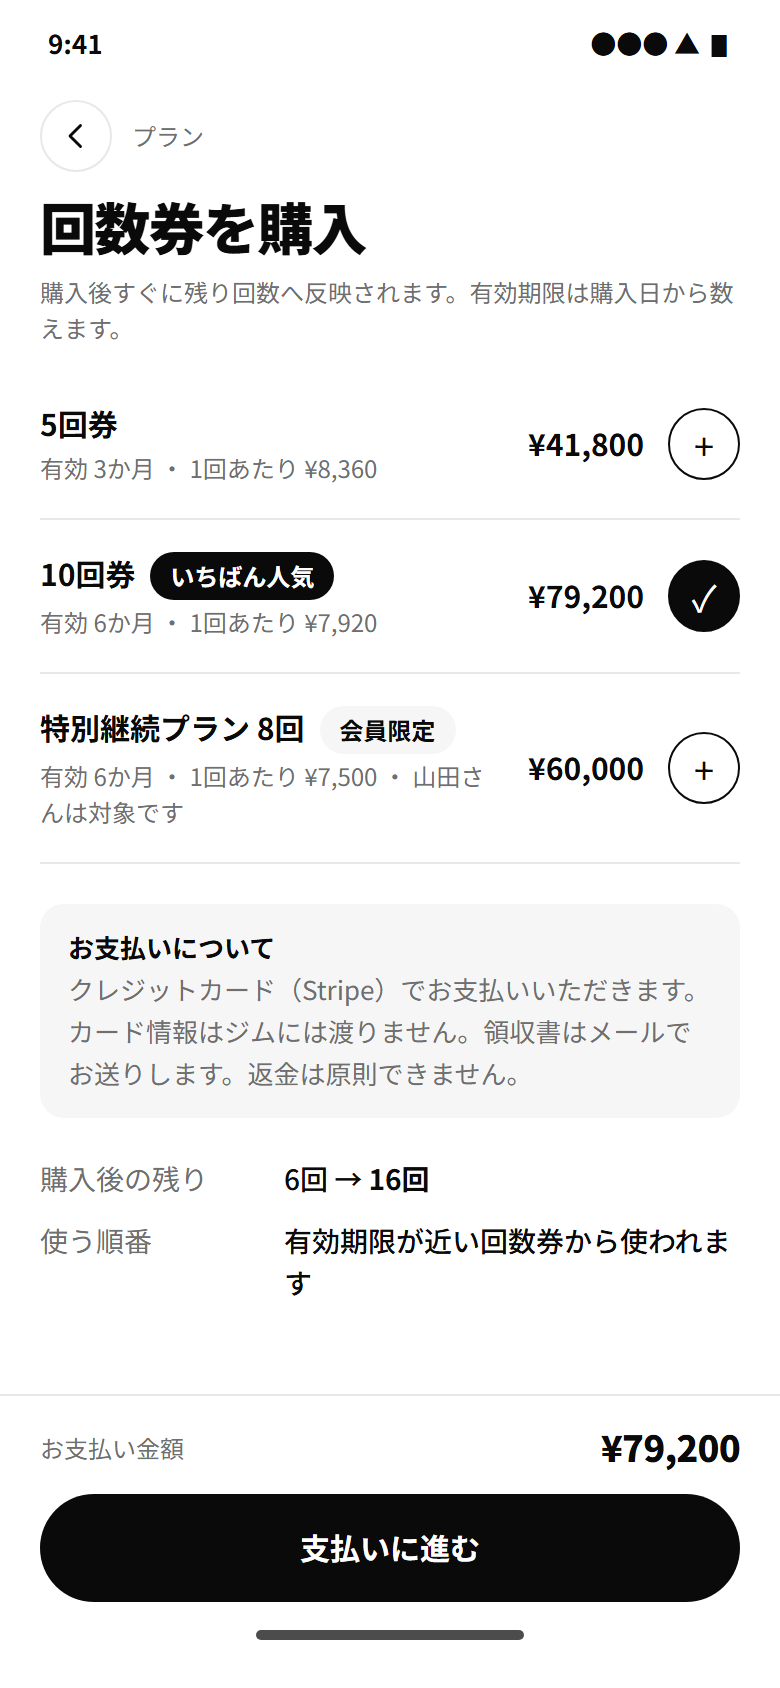
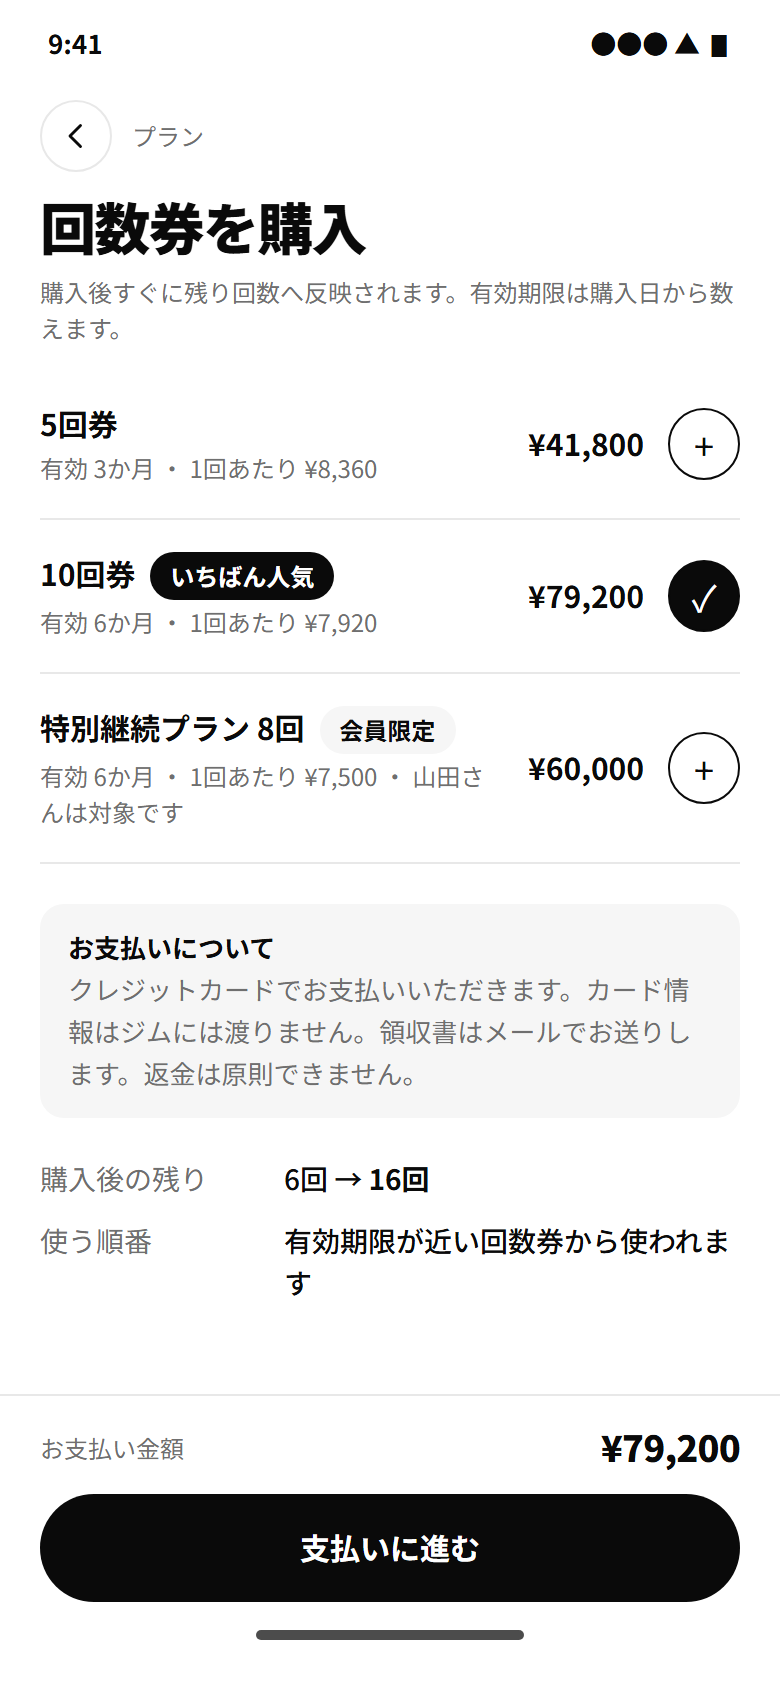
torewaku: contact by email, yearly 70,000 yen, describe payment without naming Stripe

Changed region(s): [[0.0923, 0.5545, 0.8923, 0.6469]]

diff --git a/app/torewaku/page.tsx b/app/torewaku/page.tsx
@@ -10,7 +10,8 @@ const notoSansJP = Noto_Sans_JP({
   preload: false,
 });
 
-const CONTACT_URL = "https://www.number07.net/contact";
+const CONTACT_EMAIL = "number191707@gmail.com";
+const CONTACT_MAILTO = `mailto:${CONTACT_EMAIL}?subject=${encodeURIComponent("トレワクについてのお問い合わせ")}`;
 
 export const metadata: Metadata = {
   title: "トレワク | パーソナルジム向けの予約・会員管理サービス",
@@ -49,12 +50,12 @@ const legal: [string, React.ReactNode][] = [
   [
     "お問い合わせ",
     <>
-      お問い合わせフォームより（<a href={CONTACT_URL}>{CONTACT_URL}</a>）
+      メール（<a href={CONTACT_MAILTO}>{CONTACT_EMAIL}</a>）
     </>,
   ],
-  ["販売価格", "月額 6,500 円（税別）／年額 72,000 円（税別）"],
+  ["販売価格", "月額 6,500 円（税別）／年額 70,000 円（税別）"],
   ["商品代金以外の必要料金", "インターネット接続にかかる通信料はお客様のご負担となります"],
-  ["支払方法", "クレジットカード（Stripe）"],
+  ["支払方法", "クレジットカード"],
   ["支払時期", "月額は毎月前払い、年額は契約時に一括前払い"],
   ["提供時期", "お支払いの確認後、アカウントを発行した時点から利用できます"],
   ["解約", "いつでも解約できます。月額は当月末、年額は契約期間の末日で終了します"],
@@ -81,11 +82,11 @@ export default function TorewakuPage() {
         </div>
         <nav className={styles.nav}>
           <a href="#features">できること</a>
-          <a href="#money">お金の流れ</a>
+          <a href="#money">お支払い</a>
           <a href="#price">料金</a>
           <a href="#legal">特定商取引法に基づく表記</a>
         </nav>
-        <a className={styles.cta} href={CONTACT_URL}>
+        <a className={styles.cta} href={CONTACT_MAILTO}>
           お問い合わせ
         </a>
       </header>
@@ -122,7 +123,7 @@ export default function TorewakuPage() {
           <i>回数券・月額プラン</i>
           <span>CANCEL 21:00</span>
           <i>週のカレンダー</i>
-          <span>STRIPE CONNECT</span>
+          <span>CARD PAY</span>
           <i>代理予約</i>
         </div>
       </div>
@@ -145,14 +146,14 @@ export default function TorewakuPage() {
             0<em>円</em>
           </div>
           <div className={styles.l}>トレワクが代金に上乗せする手数料</div>
-          <div className={styles.s}>かかるのは Stripe の決済手数料のみ</div>
+          <div className={styles.s}>売上はジムの口座へ直接</div>
         </div>
         <div className={styles.stat}>
           <div className={styles.n}>
             6,500<em>円</em>
           </div>
           <div className={styles.l}>月額（税別）</div>
-          <div className={styles.s}>年額 72,000 円（税別）</div>
+          <div className={styles.s}>年額 70,000 円（税別）</div>
         </div>
       </div>
 
@@ -204,28 +205,28 @@ export default function TorewakuPage() {
       </div>
 
       <div id="money" className={styles.money}>
-        <div className={styles.kicker}>MONEY FLOW</div>
-        <h2 className={styles.h2}>代金は、ジムへまっすぐ。</h2>
+        <div className={styles.kicker}>EASY PAYMENT</div>
+        <h2 className={styles.h2}>お支払いも、スマホでかんたん。</h2>
         <div className={styles.flow}>
           <div className={styles.node}>
-            <div className={styles.t}>支払う人</div>
-            <div className={styles.h}>会員</div>
+            <div className={styles.t}>STEP 1</div>
+            <div className={styles.h}>会員がスマホでカード払い</div>
           </div>
           <div className={styles.arrow}>→</div>
           <div className={styles.node}>
-            <div className={styles.t}>決済</div>
-            <div className={styles.h}>Stripe Connect</div>
+            <div className={styles.t}>STEP 2</div>
+            <div className={styles.h}>回数券・プランに自動で反映</div>
           </div>
           <div className={styles.arrow}>→</div>
           <div className={styles.node}>
-            <div className={styles.t}>入金先</div>
-            <div className={styles.h}>各ジムの Stripe アカウント</div>
+            <div className={styles.t}>STEP 3</div>
+            <div className={styles.h}>売上はジムの口座へ</div>
           </div>
         </div>
         <p>
-          会員の支払いは Stripe Connect で各ジムの Stripe アカウントへ直接入金されます。
+          回数券や月額プランは、会員がスマホからその場で購入できます。
           <br className={styles.pcOnly} />
-          トレワクは会員の代金を預からず、手数料も上乗せしません。
+          集金や回数の書き換えは不要。店頭での現金・エアペイ払いもまとめて記録できます。
         </p>
       </div>
 
@@ -243,13 +244,13 @@ export default function TorewakuPage() {
           <div className={styles.plan}>
             <div className={styles.p}>年額プラン</div>
             <div className={`${styles.v} ${styles.num}`}>
-              72,000<small>円 / 年</small>
+              70,000<small>円 / 年</small>
             </div>
             <div className={styles.tax}>税別</div>
           </div>
         </div>
         <p className={styles.note}>
-          お支払いはクレジットカード（Stripe）。月額は毎月前払い、年額は契約時に一括前払いです。いつでも解約できます。
+          お支払いはクレジットカード。月額は毎月前払い、年額は契約時に一括前払いです。いつでも解約できます。
         </p>
       </div>
 
@@ -270,9 +271,12 @@ export default function TorewakuPage() {
 
       <div className={styles.contact}>
         <h2 className={styles.h2}>まずは、お問い合わせから。</h2>
-        <a className={styles.cta} href={CONTACT_URL}>
-          お問い合わせフォーム →
-        </a>
+        <div className={styles.contactAction}>
+          <a className={styles.cta} href={CONTACT_MAILTO}>
+            メールでお問い合わせ →
+          </a>
+          <p className={styles.mail}>{CONTACT_EMAIL}</p>
+        </div>
       </div>
       <footer className={styles.footer}>
         <span>トレワク — パーソナルジム向けの予約・会員管理サービス</span>

diff --git a/app/torewaku/torewaku.module.css b/app/torewaku/torewaku.module.css
@@ -308,7 +308,7 @@
   font-weight: 700;
 }
 .h {
-  font-size: 24px;
+  font-size: 22px;
   font-weight: 900;
   margin-top: 6px;
 }
@@ -416,6 +416,18 @@
 }
 .root .contact .h2 {
   margin: 0;
+}
+.contactAction {
+  display: flex;
+  flex-direction: column;
+  align-items: flex-end;
+  gap: 12px;
+}
+.mail {
+  font-size: 16px;
+  font-weight: 700;
+  color: var(--mute);
+  user-select: all;
 }
 .footer {
   padding: 36px var(--gutter);
@@ -654,6 +666,9 @@
   }
   .legal td {
     padding: 10px 14px 18px;
+  }
+  .contactAction {
+    align-items: flex-start;
   }
   .contact {
     flex-direction: column;
